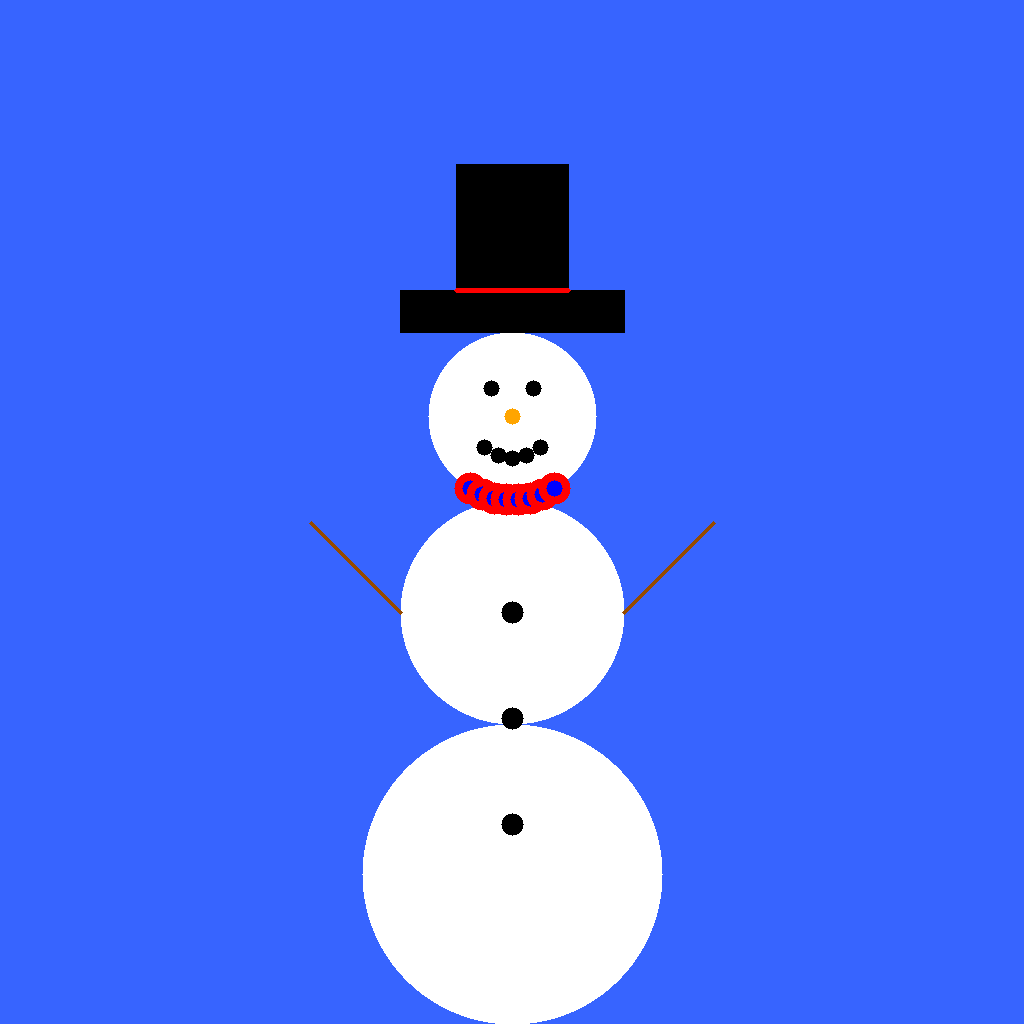
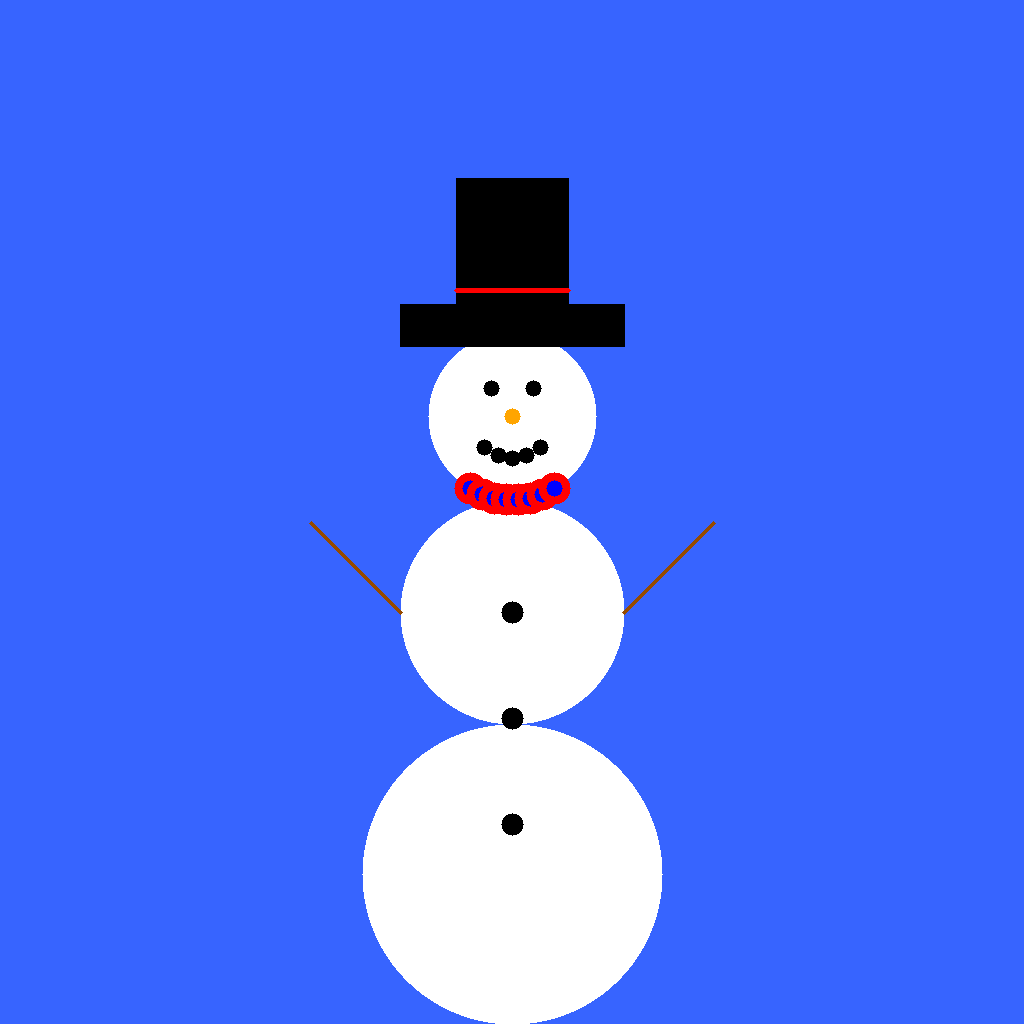
Moved the hat a bit lower

Changed region(s): [[0.375, 0.2812, 0.625, 0.3438], [0.4375, 0.1562, 0.5625, 0.1875]]

diff --git a/main.py b/main.py
@@ -316,10 +316,10 @@ def createImage(bottom_radius: int, middle_radius: int, top_radius: int, arm_len
     arm_left_end = (int(side//2-middle_radius-(arm_length)//1.4), int(side-(2*bottom_radius+middle_radius)-(arm_length)//1.4))
     cv2.line(img, arm_right_start, arm_right_end, (0, 75, 150), 3)
     cv2.line(img, arm_left_start, arm_left_end, (0, 75, 150), 3)
-    hat_bottom_start = (side//2-middle_radius, side-int(2*bottom_radius+2*middle_radius+2.5*top_radius))
-    hat_bottom_end = (side//2+middle_radius, side-(2*bottom_radius+2*middle_radius+2*top_radius))
-    hat_top_start = (side//2-middle_radius//2, side-(2*bottom_radius+2*middle_radius+4*top_radius))
-    hat_top_end = (side//2+middle_radius//2, side-int(2*bottom_radius+2*middle_radius+2.5*top_radius))
+    hat_bottom_start = (side//2-middle_radius, side-int(2*bottom_radius+2*middle_radius+2.5*top_radius)+top_radius//6)
+    hat_bottom_end = (side//2+middle_radius, side-(2*bottom_radius+2*middle_radius+2*top_radius)+top_radius//6)
+    hat_top_start = (side//2-middle_radius//2, side-(2*bottom_radius+2*middle_radius+4*top_radius)+top_radius//6)
+    hat_top_end = (side//2+middle_radius//2, side-int(2*bottom_radius+2*middle_radius+2.5*top_radius)+top_radius//6)
     cv2.rectangle(img, hat_bottom_start, hat_bottom_end, hat_colour, -1)
     cv2.rectangle(img, hat_top_start, hat_top_end, hat_colour, -1)
     cv2.line(img, (side//2-middle_radius//2, side-int(2*bottom_radius+2*middle_radius+2.5*top_radius)), (side//2+middle_radius//2, side-int(2*bottom_radius+2*middle_radius+2.5*top_radius)), hat_colour_secondary, 3)
